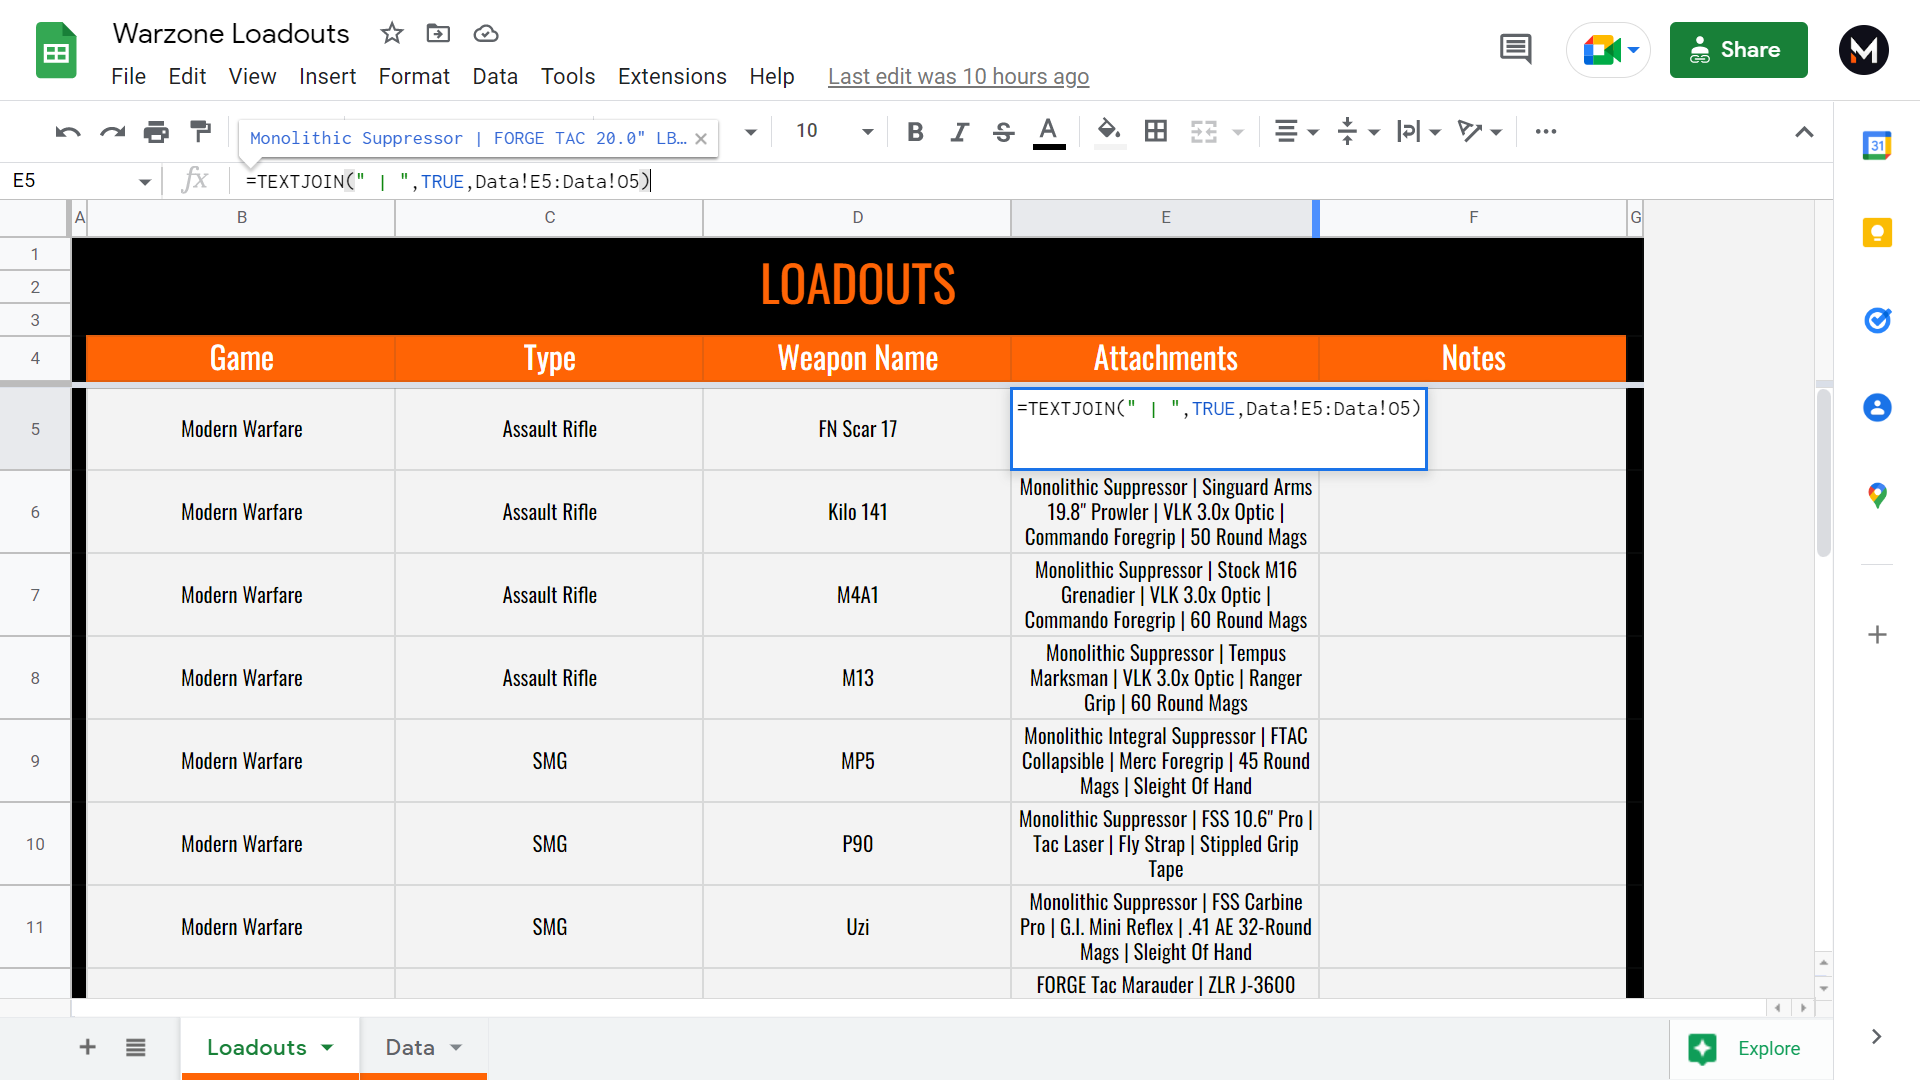
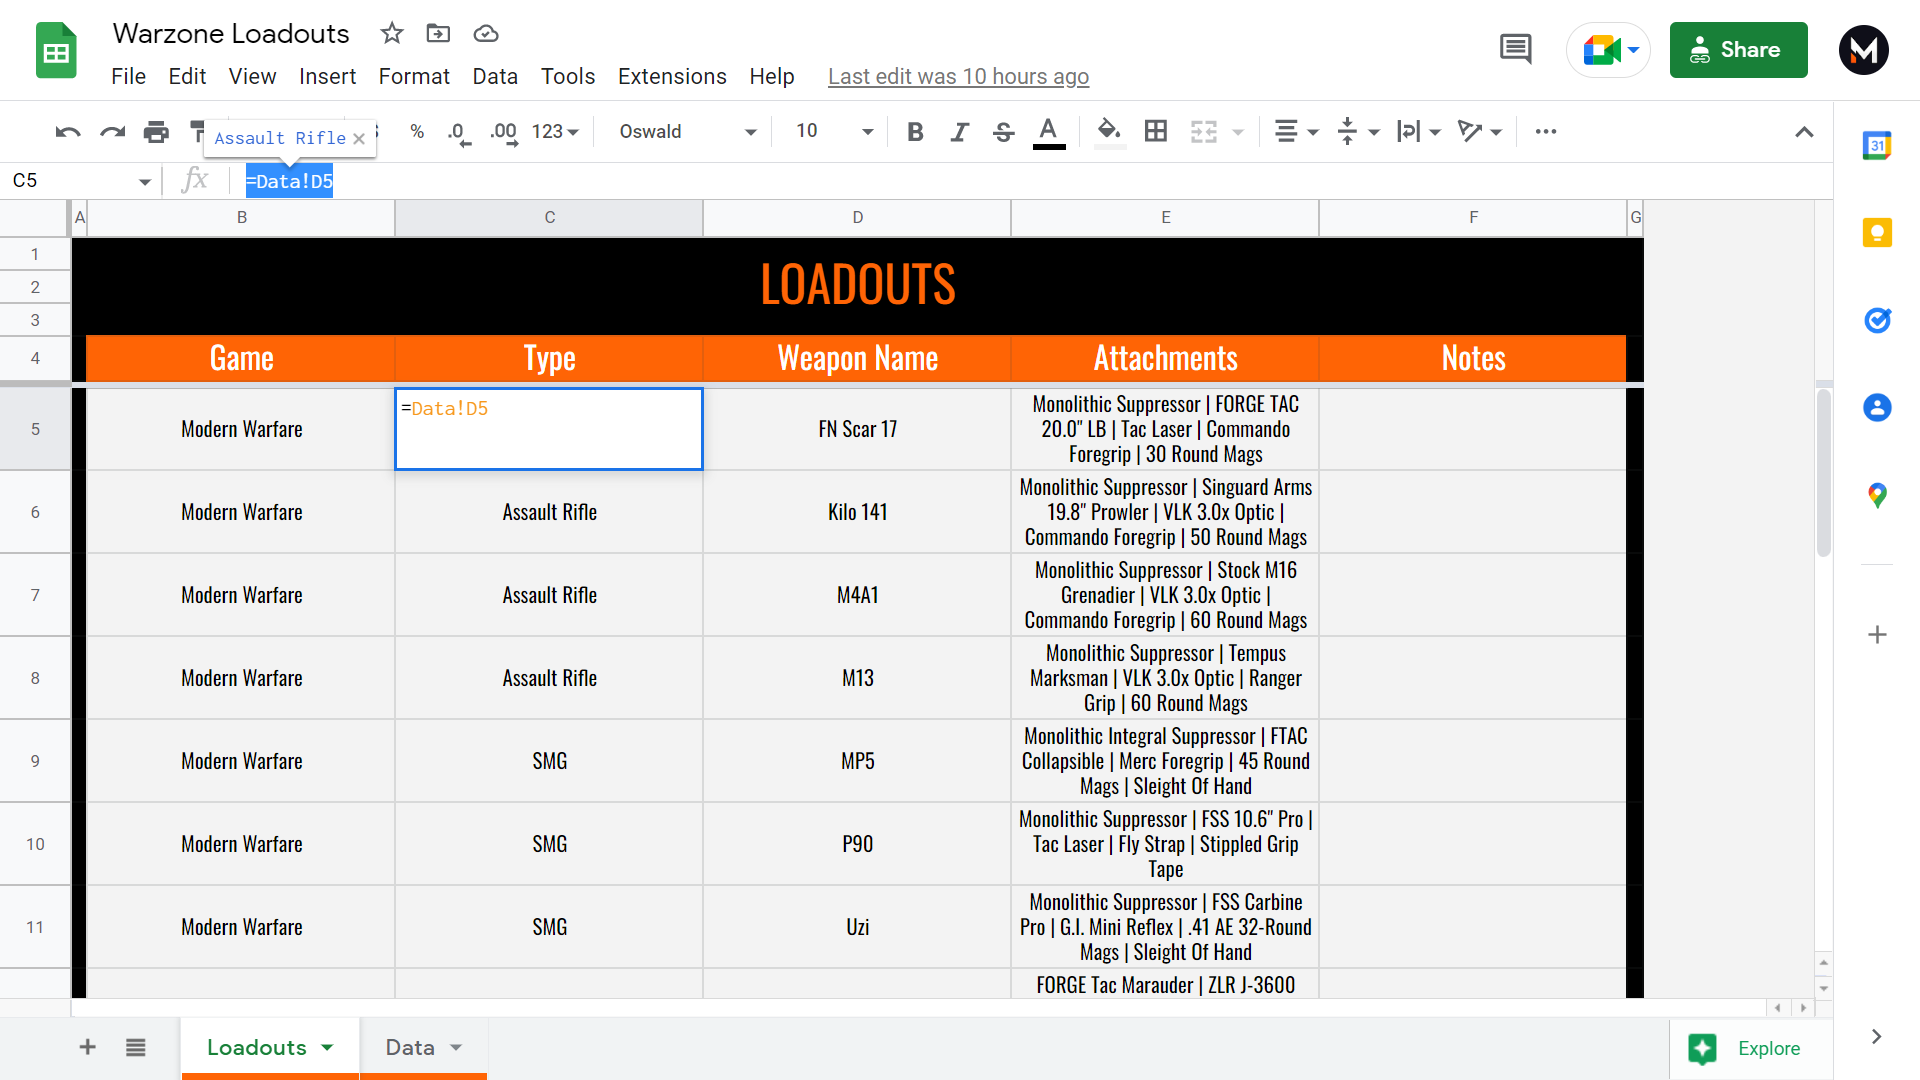
Google Sheets Examples
I added examples.

diff --git a/programs.html b/programs.html
@@ -166,16 +166,18 @@
                     <div class="program-description">
                         <p>Google Sheets is a spreadsheet program which is included in the Google Workspace. Some features include smart fill, formula suggestions and access to edit Microsoft Excel spreadsheets online. It was originally released in 2006.</p>
                         <hr class="thematic-break">
-                        <p>Text Goes Here</p>
-                        <a href="https://docs.google.com/spreadsheets/d/1Vzg_aCW5M24nSn_B7bZuPdpvW5M6YHlznCkJzpxYBhc/edit?usp=sharing">Spreadsheet</a>
-                        <a href="https://www.callofduty.com/au/en/warzone">Call Of Duty Warzone</a>
+                        <p>This <a href="https://docs.google.com/spreadsheets/d/1Vzg_aCW5M24nSn_B7bZuPdpvW5M6YHlznCkJzpxYBhc/edit?usp=sharing">Spreadsheet</a> is created by me and is designed to show information about weapon attachments for players of <a href="https://www.callofduty.com/au/en/warzone">Call Of Duty Warzone</a>. The game contains over 100+ weapons and you often need to dig through YouTube videos to find a set of attachments which are good to use, but this solves that. There are two Sheets, one is Loadouts and the other is Data. The Data sheet contains all of the information which is then displayed on the Loadouts sheet with better formatting. See below for examples.</p>
                         <img class="example-picture" title="First Sheets Example" alt="First Sheets Example" src="source/images/google-workspace/sheets/first-sheets-example.png">
                         <img class="example-picture" title="Second Sheets Example" alt="Second Sheets Example" src="source/images/google-workspace/sheets/second-sheets-example.png">
+                        <p>I'm using an in-cell dropdown list to pick which game the weapon is from and to pick which type of weapon it is.</p>
                         <img class="example-picture" title="Third Sheets Example" alt="Third Sheets Example" src="source/images/google-workspace/sheets/third-sheets-example.png">
+                        <p>Here's a better look at how the in-cell dropdown lists are created. It's added through Data Validation and you select List Of Items and then add a comma between each item. This specifically shows the List Of Items for the weapon type column.</p>
                         <img class="example-picture" title="Fourth Sheets Example" alt="Fourth Sheets Example" src="source/images/google-workspace/sheets/fourth-sheets-example.png">
+                        <p>It's time to move onto the formulas used in the Spreadsheet. This first one shows how the Weapon Type is pulled from Data and is showcased on the Loadouts Sheet.</p>
                         <img class="example-picture" title="Fifth Sheets Example" alt="Fifth Sheets Example" src="source/images/google-workspace/sheets/fifth-sheets-example.png">
+                        <p>The Attachments column is the most complicated and took a bit of time to figure out. It uses something called <a href="https://support.google.com/docs/answer/7013992?hl=en">TextJoin</a> which combines text from multiple strings and/or arrays with a specific delimiter seperating the different texts. This pulls Attachments from Data and showcases it in a neatly organized manner. Cool right?</p>
                         <img class="example-picture" title="Sixth Sheets Example" alt="Sixth Sheets Example" src="source/images/google-workspace/sheets/sixth-sheets-example.png">
-                        <!-- Warzone Loadouts Spreadsheet / https://docs.google.com/spreadsheets/d/1Vzg_aCW5M24nSn_B7bZuPdpvW5M6YHlznCkJzpxYBhc/edit?usp=sharing -->
+                        <p>What's wonderful about this Spreadsheet is you can add more entries into Data and it automatically gets added into Loadouts. Additionally, this Spreadsheet will most likely update as I am constantly adding new entries into it. Click <a href="https://docs.google.com/spreadsheets/d/1Vzg_aCW5M24nSn_B7bZuPdpvW5M6YHlznCkJzpxYBhc/edit?usp=sharing">Here</a> to view the Spreadsheet.</p>
                     </div>
                 </div>
                 <!-- Google Drive -->
@@ -204,7 +206,7 @@
                         <span class="program-title">Trello</span>
                     </div>
                     <div class="program-description">
-                        <p>Trello</p>
+                        <p>Trello is a web-based list-making application developed by Trello Enterprise, a subsidiary of Atlassian. It allows individuals or teams to stay on track and focus on work. It was originally released in 2011.</p>
                         <hr class="thematic-break">
                         <p>Text Goes Here</p>
                     </div>
